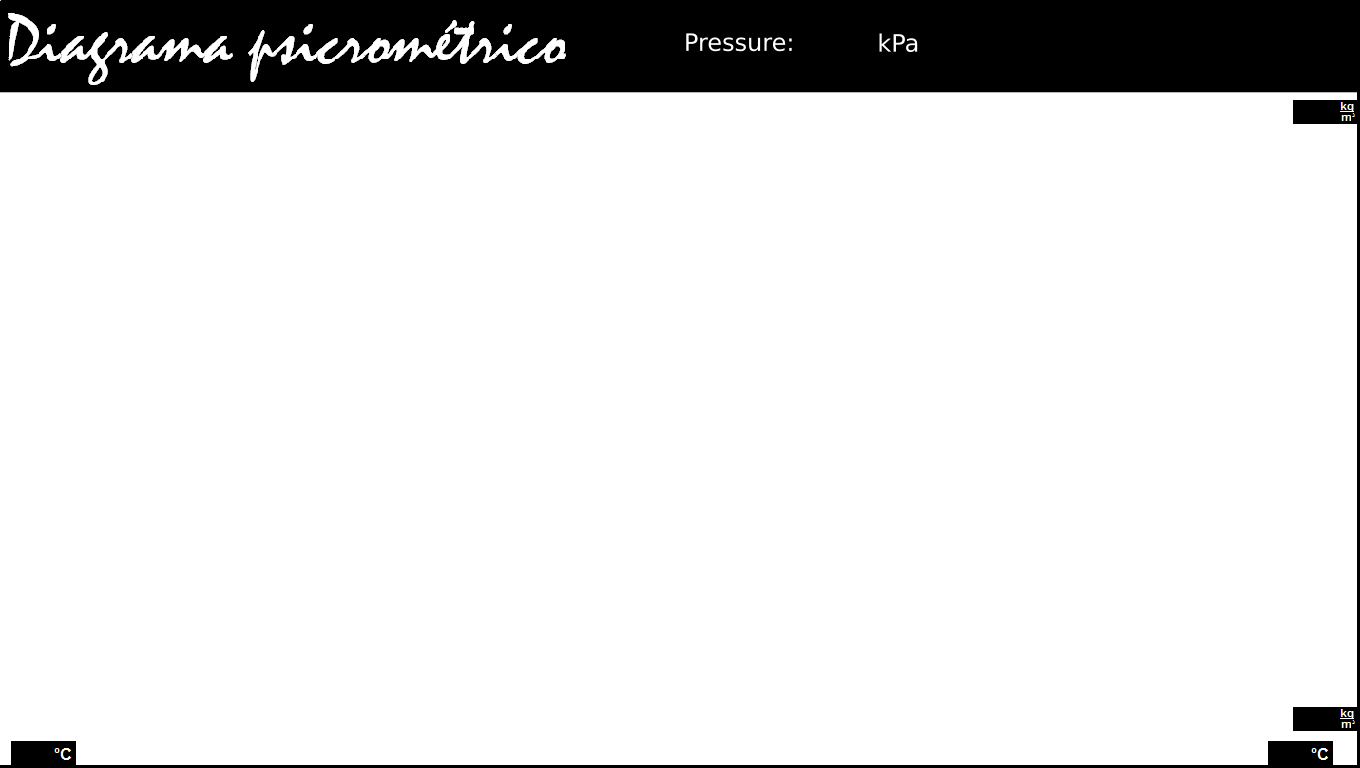
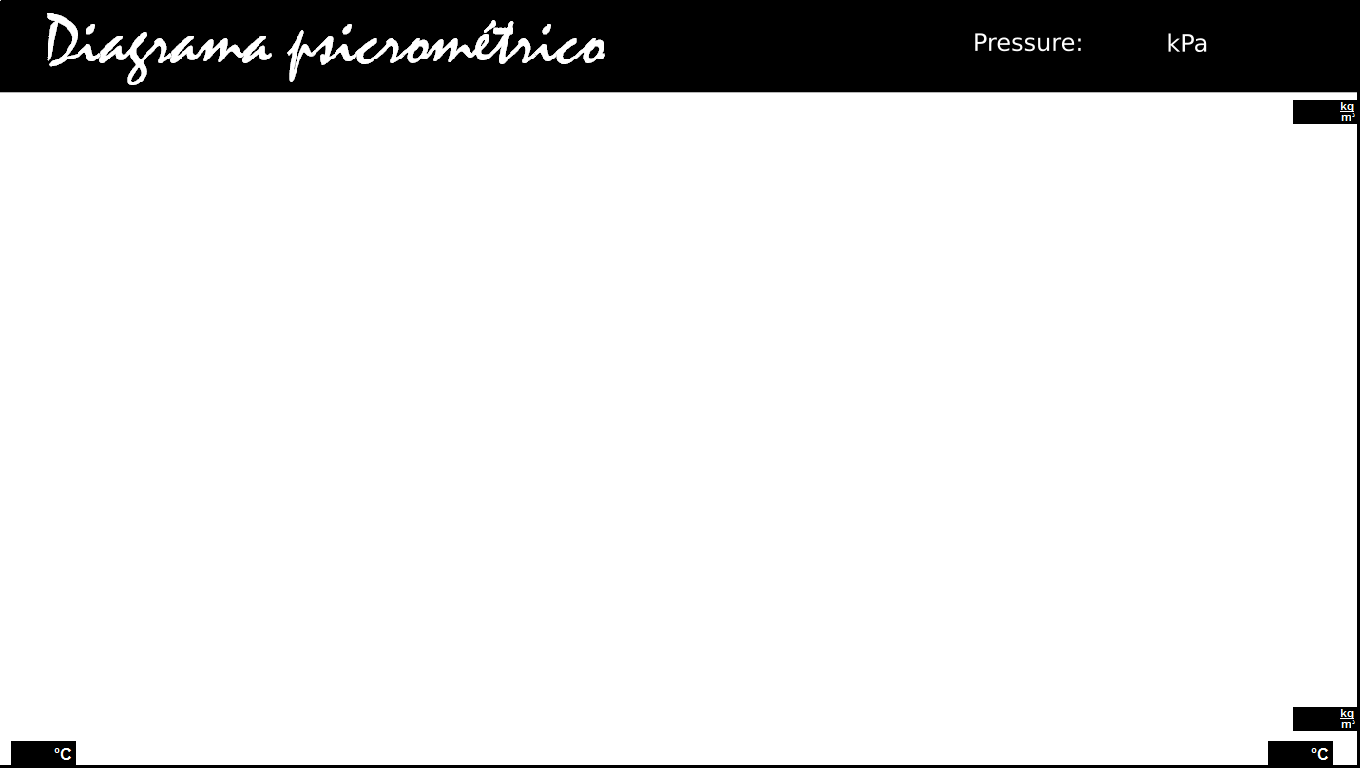
Add files via upload

diff --git a/Sketch.js b/Sketch.js
@@ -71,7 +71,7 @@ function MoveToTheRequestedRange() {
 function preload() {
     Background[0] = loadImage('Images/Background.png');
     Background[1] = loadImage('Images/Background_x.png');
-    webButtons[0] = new WebButton([1050, 0], loadImage('Images/ChangeGasComposition_A.jpg'), loadImage('Images/ChangeGasComposition_B.jpg'), loadImage('Images/ChangeGasComposition_C.jpg'));
+    webButtons[0] = new WebButton([750, 0], loadImage('Images/ChangeGasComposition_A.jpg'), loadImage('Images/ChangeGasComposition_B.jpg'), loadImage('Images/ChangeGasComposition_C.jpg'));
     webButtons[1] = new WebButton([380, 620], loadImage('Images/Clear_A.jpg'), loadImage('Images/Clear_B.jpg'), loadImage('Images/Clear_C.jpg'));
     webButtons[2] = new WebButton([430, 230], loadImage('Images/Update_Gas_Composition_A.jpg'), loadImage('Images/Update_Gas_Composition_B.jpg'), loadImage('Images/Update_Gas_Composition_C.jpg'));
 }
@@ -83,7 +83,7 @@ function setup() {
     // DOM Inputs
     inpPressure = createInput(DryGas.Pressure.toString());
     inpPressure.size(40, 30);
-    inpPressure.position(805, 33);
+    inpPressure.position(1100, 33);
     inpMinTemperarure = createInput(Screen.tempMinSP.toString());
     inpMinTemperarure.size(30, 15);
     inpMinTemperarure.position(21, 751);
